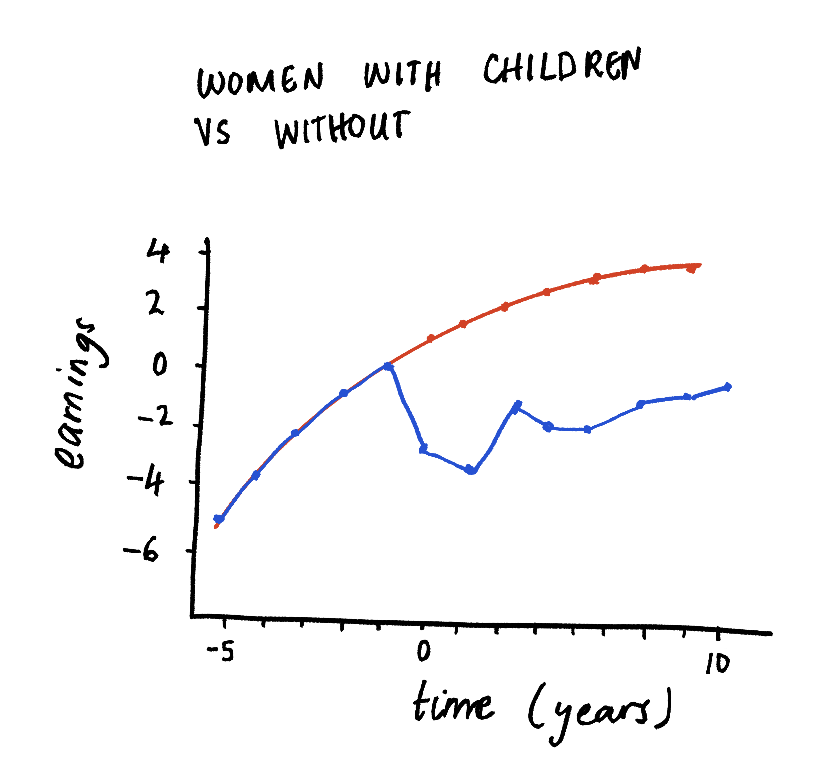
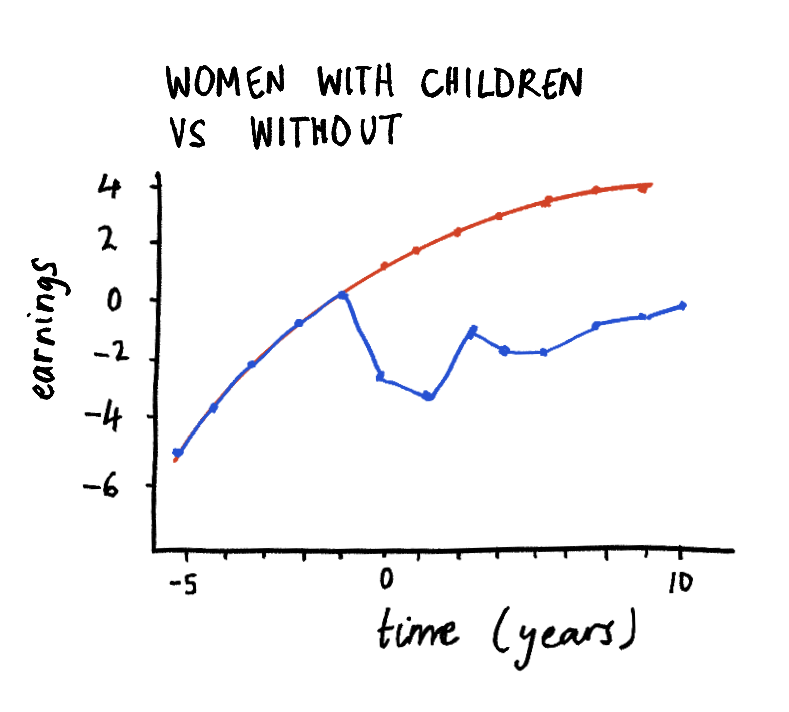
add new images

diff --git a/index.html b/index.html
@@ -48,8 +48,8 @@
 				To be more specific, let’s look at libraries. A female librarian with the same level of experience and qualifications as their male coworker is still less likely to be promoted to director, even in a field that prioritizes academia – despite having more female coworkers during their tenure.
 			</p>
 
-			<img src="/charts/librarians.png"/>
-			<!-- <img src="/charts/librarians-2.png"/> -->
+			<img src="/charts/librarians-1.png"/>
+			<img src="/charts/librarians-2.png"/>
 
 			<p>
 				Though most library directors are women, the percentage of directors who are men exceeds the percentage of librarians who are men. Also, men's salaries tend to be higher than women's, even for the same position.
@@ -64,12 +64,6 @@
 			<p>
 				It may seem like men overall worker longer hours than women, but the main takeaway here is that men work more <i>paid</i> hours than women. The current overall pay gap number of around 19% does not take into consideration occupation, education, skills, or education. Once that is taken note of, the actual wage gap is reduced to around 4%. This is generally what is considered the “unexplained” pay gap, meaning there is no economic explanation for it – it is chalked up to being purely based on gender discrimination.
 			</p>
-
-			<p>
-				It is also important to mention here that caste and religion also introduces a level of wage disparity in India :
-			</p>
-
-      <img src="/charts/wage disparity religion caste.png">
 
       <h2>Debunking the wage gap?</h2>
 
@@ -107,7 +101,8 @@
 				Coming back to the topic of men working more paid hours, it’s an undisputable fact that women work a much greater amount of unpaid work through their lives, such as housework and childcare outside of their regular working hours.
 			</p>
 
-      <img src="/charts/children on earnings.png"/>
+      <img src="/charts/children on earnings1.png"/>
+	  <img src="/charts/children on earnings2.png"/>
 
       <p>
 				The idea is not to discourage men from doing housework, but it is undisputable that women do a disproportionately large amount of it. With children in the picture, the concept of the motherhood penalty comes into play. It is here that the graph so widely skews when it comes to womens’ income streams.
